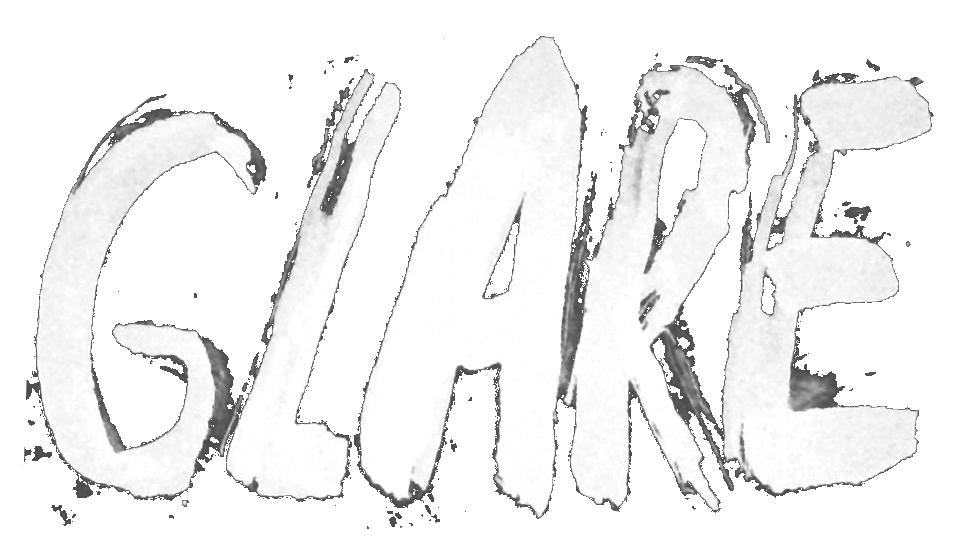
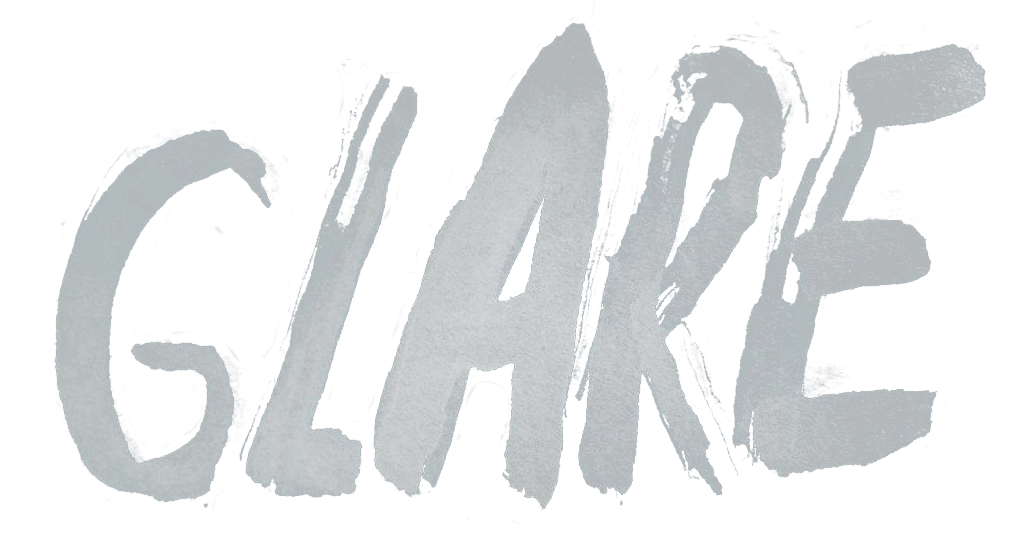
Fix up sidebar

diff --git a/src/components/app/menu.js b/src/components/app/menu.js
@@ -55,9 +55,9 @@ class Menu extends Component {
     const hasAccess = user && user.hasAccess
 
     return (
-      <div className="menu-container">
+      <div className="sidebar-menu-container">
         <RippleButton
-          className="menu-item menu-close"
+          className="sidebar-menu-item menu-close"
           onClick={this.hideSidebar}>
           <Icon type={'close'} />
         </RippleButton>
@@ -67,7 +67,7 @@ class Menu extends Component {
         : null }
 
         <RippleButton
-          className="menu-item"
+          className="sidebar-menu-item"
           onClick={this.linkTo('connect')}>
           {hasAccess ? 'Give' : 'Connect'}
           <Icon type={'give'} />
@@ -75,7 +75,7 @@ class Menu extends Component {
 
 
         <RippleButton
-          className="menu-item"
+          className="sidebar-menu-item"
           onClick={onClick}>
           Connections
           <Icon type={'connections'} />
@@ -83,7 +83,7 @@ class Menu extends Component {
 
         { hasAccess ?
           <RippleButton
-            className="menu-item"
+            className="sidebar-menu-item"
             onClick={this.linkTo('listen')}>
             Listen
             <Icon type={'listen'} />
@@ -91,21 +91,21 @@ class Menu extends Component {
         : null }
 
         <RippleButton
-          className="menu-item"
+          className="sidebar-menu-item"
           onClick={onClick}>
           About
           <Icon type={'about'} />
         </RippleButton>
 
         <RippleButton
-          className="menu-item"
+          className="sidebar-menu-item"
           onClick={onClick}>
           Share
           <Icon type={'share'} />
         </RippleButton>
 
         <RippleButton
-          className="menu-item"
+          className="sidebar-menu-item"
           onClick={this.signOut}>
           Sign Out
           <Icon type={'sign-out'} />

diff --git a/src/styles/app/_sidebar.scss b/src/styles/app/_sidebar.scss
@@ -1,16 +1,21 @@
 //===================================================================
 //  SIDEBAR
 //===================================================================
+@mixin background-gradient($color) {
+  background: linear-gradient(to right, rgba($color, 0), rgba($color, 1), rgba($color, 1));
+}
 
 .sidebar-container {
   z-index: 100;
   height: 100%;
   width: 50%;
   position: relative;
-  background-color: $base-background-color;
+  border: none;
+  box-shadow: none;
+  @include background-gradient($base-background-color);
 }
 
-.menu-container {
+.sidebar-menu-container {
   padding: 0px;
   z-index: 100;
   height: 100%;
@@ -19,13 +24,10 @@
   flex-direction: column;
 }
 
-.menu-item {
+.sidebar-menu-item {
   // @include button-base;
   outline: none;
-  border-top: none;
-  border-left: none;
-  border-right: none;
-  border-bottom: 1px solid #555;
+  border: none;
   width: 100%;
   height: 48px;
   font-family: inherit;
@@ -33,18 +35,14 @@
   line-height: 48px;
   color: #999;
   background: transparent;
-
-  display: flex;
-  flex-direction: row;
-  justify-content: flex-end;
-  align-items: center;
+  text-align: right;
 
   & > svg {
     margin-left: 10px;
   }
 
   &:hover {
-    border-bottom: 2px solid #aaa;
+    // border-bottom: 2px solid #aaa;
     line-height: 48px;
     //border-color: #aaa;
   }
@@ -62,10 +60,11 @@
   width: 100%;
   display: flex;
   flex-direction: column;
-  align-items: center;
+  align-items: flex-end;
   padding-bottom: 20px;
-  border-bottom: 1px solid #555;
+  padding-right: 10px;
   font-size: rem(14px);
+
 }
 
 .user-avatar {

diff --git a/src/components/app/app.js b/src/components/app/app.js
@@ -66,13 +66,17 @@ export class App extends Component {
 
   render() {
     const { isLoading, isSidebarOpen, user } = this.props
+    const sidebarStyles = {
+      zIndex: 100,
+    }
 
     return (
       <Sidebar
         sidebar={<Menu />}
         open={isSidebarOpen}
         sidebarClassName="sidebar-container"
-        styles={{ sidebar: { zIndex: 100 } }}
+        styles={{ sidebar: sidebarStyles }}
+        shadow={false}
         pullRight={true}
         onSetOpen={this.onSetSidebarOpen}>
         <div className="container">

diff --git a/webpack.config.js b/webpack.config.js
@@ -37,7 +37,7 @@ const loaders = {
     loader: 'style!css!resolve-url!postcss-loader!sass',
   },
   img: {
-    test: /\.(png|jpg)$/,
+    test: /\.(png|jpg|gif)$/,
     loader: 'url-loader?limit=8192',
   }, // inline base64 URLs for <=8k images, direct URLs for the rest
 

diff --git a/src/styles/sign-in/_sign-in.scss b/src/styles/sign-in/_sign-in.scss
@@ -12,7 +12,7 @@
 .splash-logo {
   width: 80%;
   height: 80%;
-  background-image: url('img/glare_dark.png');
+  background-image: url('img/glare.png');
   background-size: contain;
   background-position: center;
   background-repeat: no-repeat;

diff --git a/src/styles/app/_header.scss b/src/styles/app/_header.scss
@@ -28,7 +28,7 @@
 .header-logo {
   height: 50px;
   width: 100px;
-  background-image: url('img/glare_dark.png');
+  background-image: url('img/glare.png');
   background-size: cover;
   background-position: center;
 }
